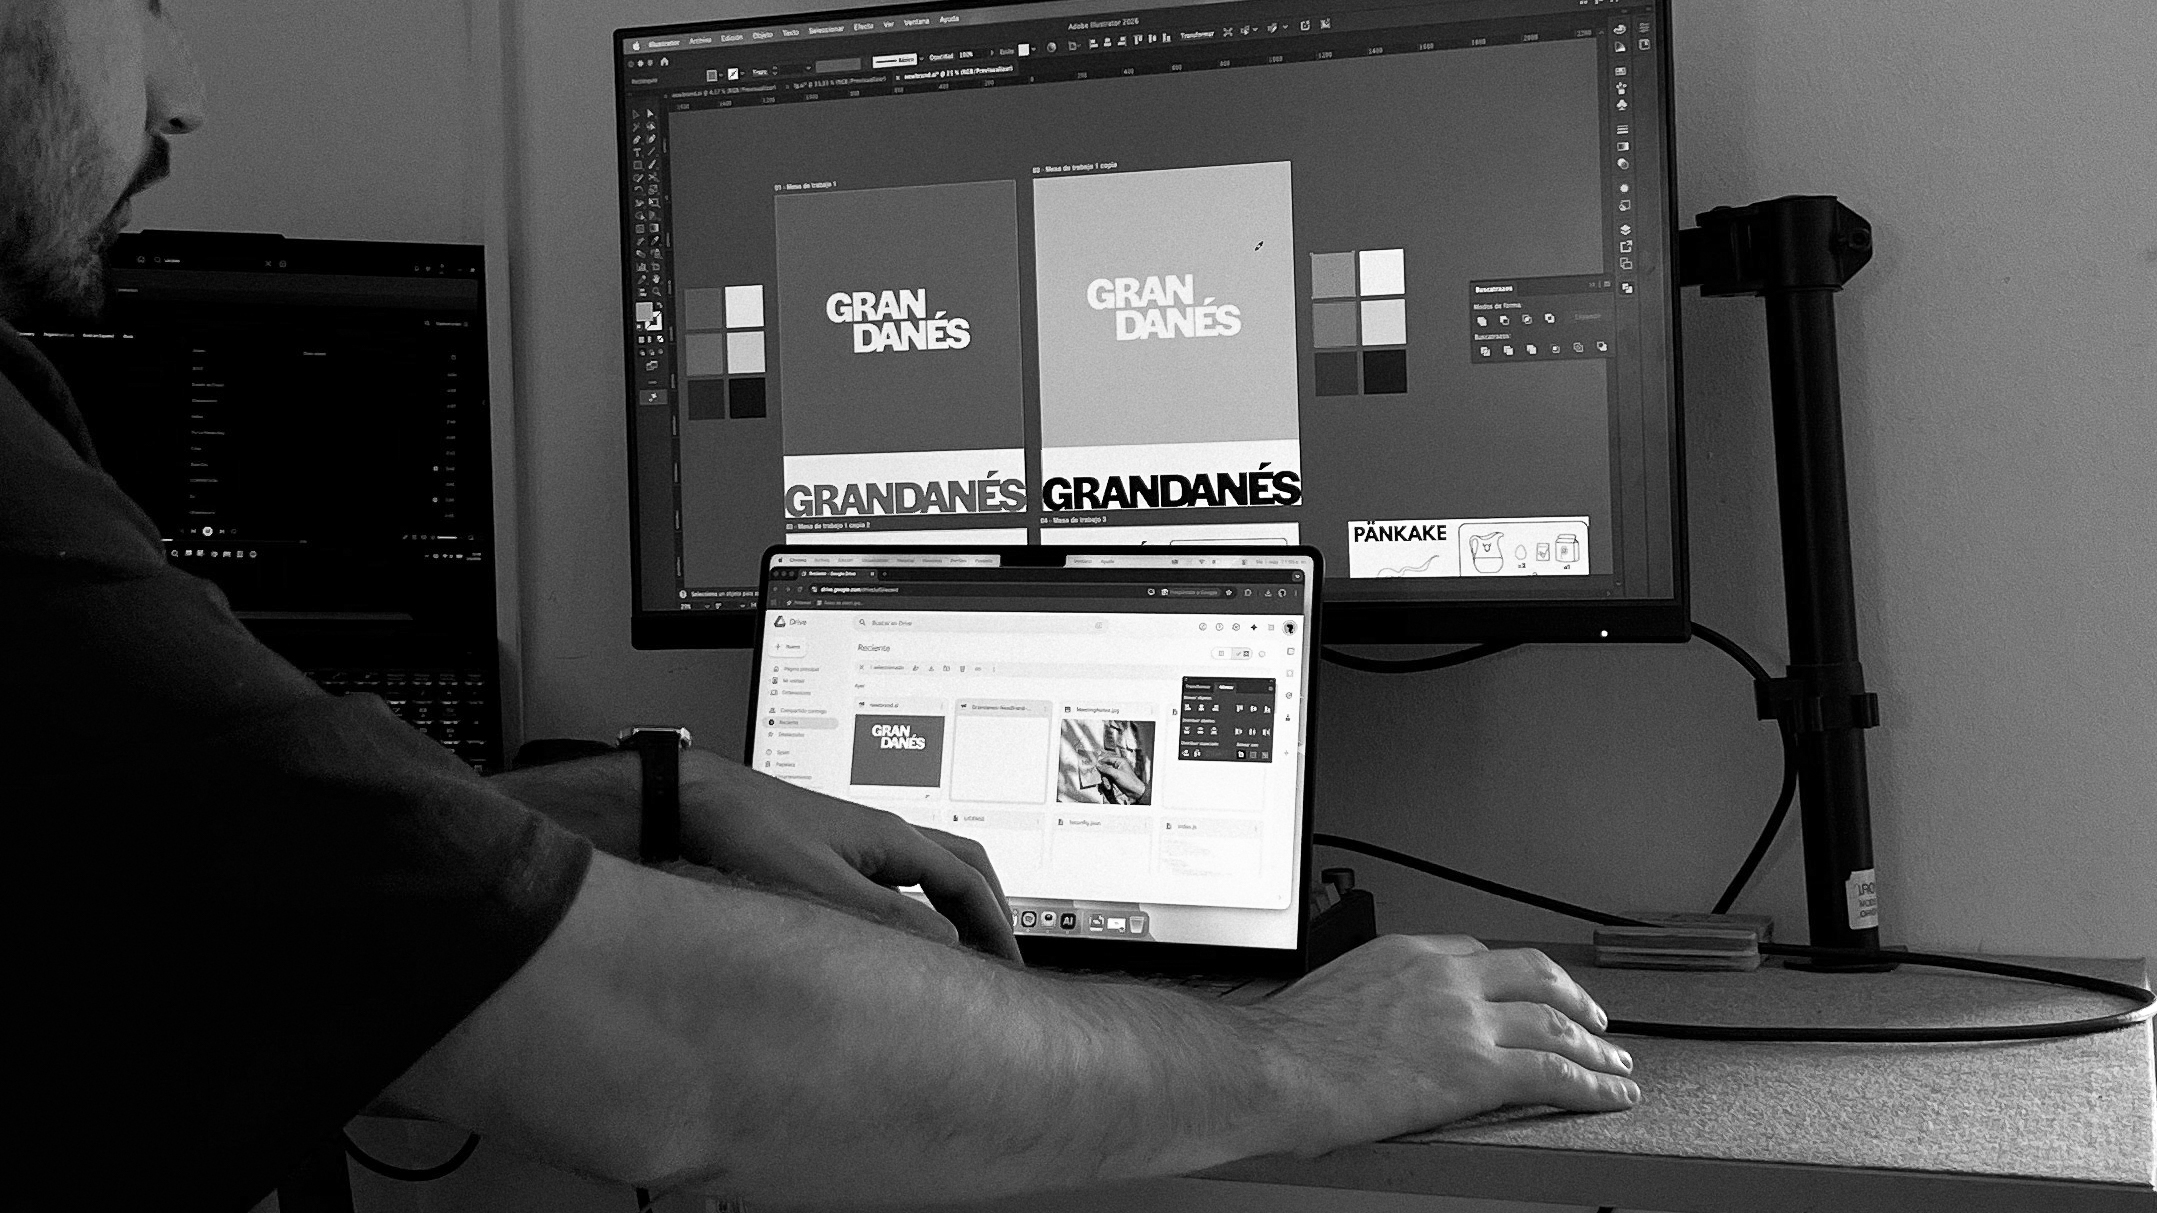
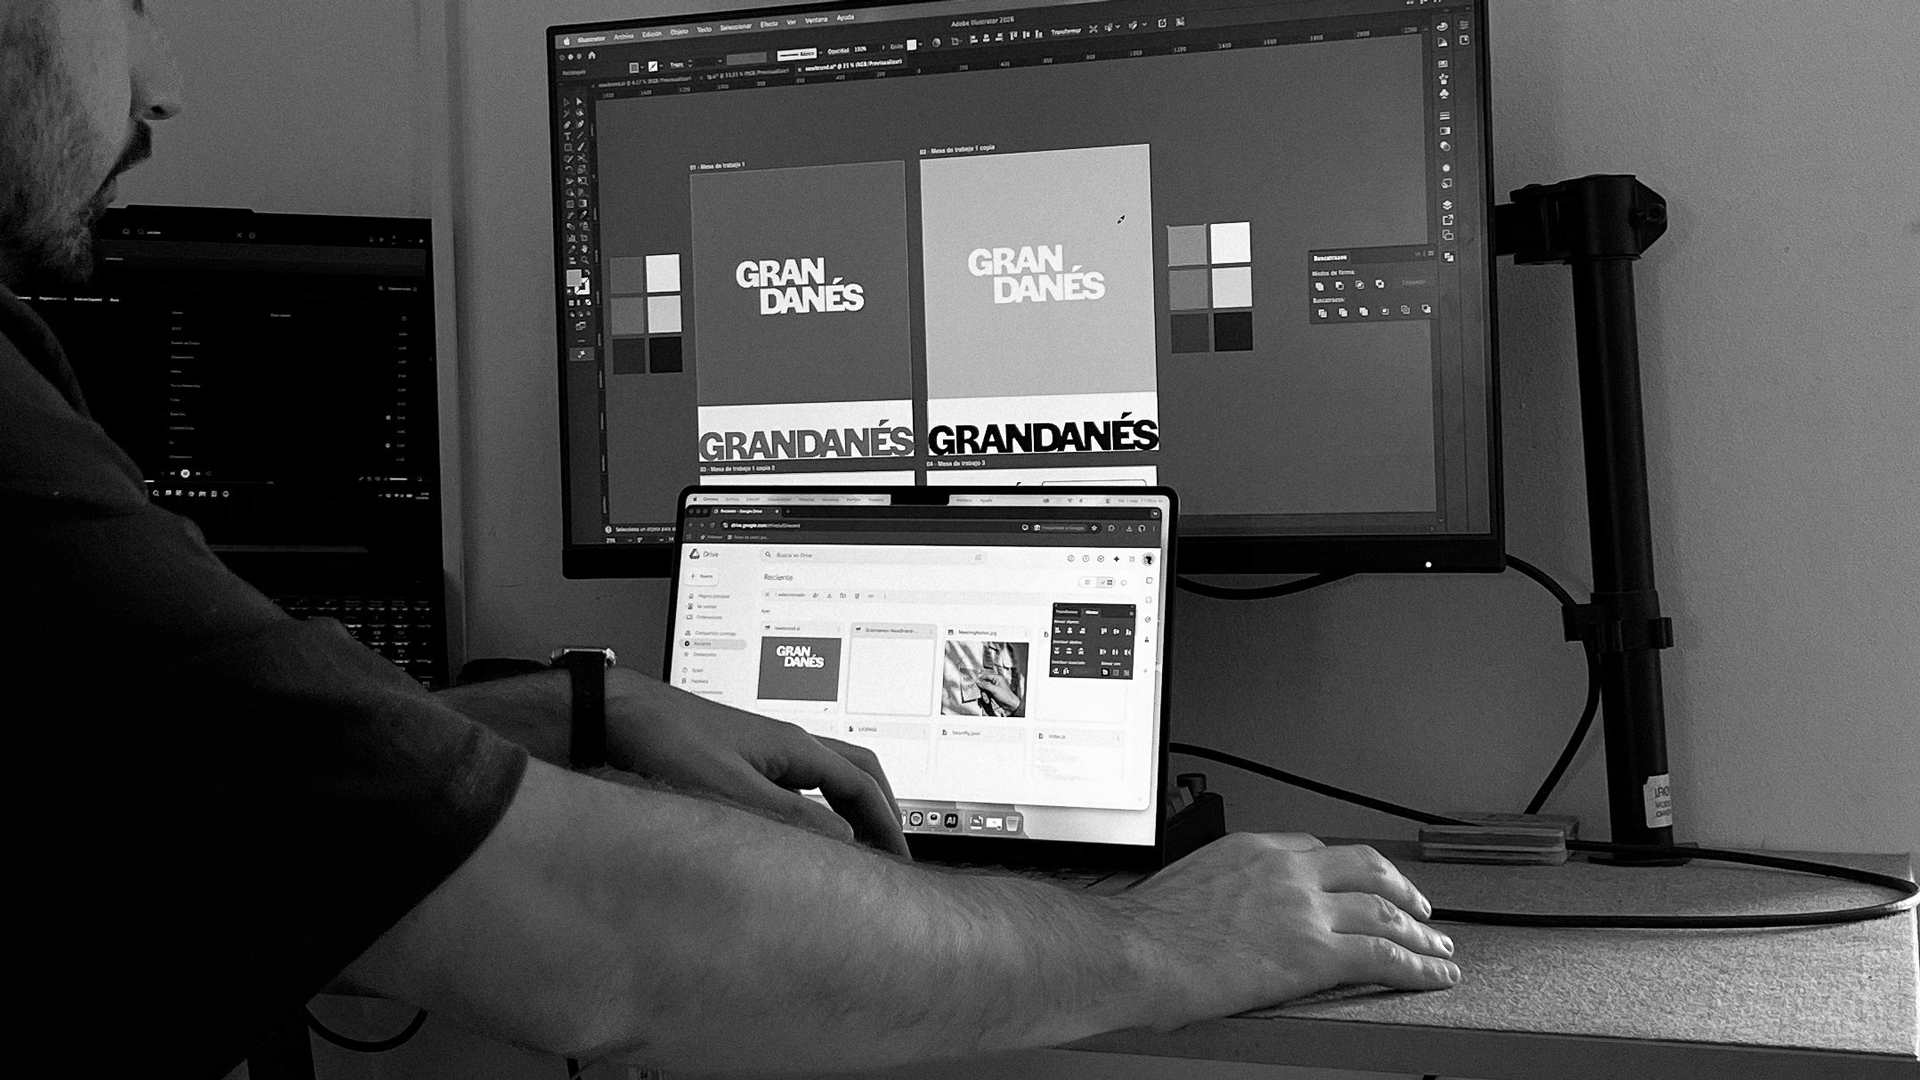
Actualizar copy, imagen About Us y miniaturas de IG
- Showcase: visor cambiado a 4:5 (fit natural sin viewport constraint)
- Cesca: tagline y description actualizados
- Módulo: description simplificada
- Nosotros: eyebrow "/ Nosotros", copy reescrito + AboutUs.jpg actualizada
- FAQ: 5 textos actualizados (título + 4 respuestas)
- IG feed: 6 miniaturas reemplazadas por las nuevas oficiales

diff --git a/index.html b/index.html
@@ -767,14 +767,11 @@
         }
 
         /* ═══════════════════════════════════════
-           SHOWCASE — Producto destacado (fit viewport)
+           SHOWCASE — Producto destacado (visor 4:5)
         ═══════════════════════════════════════ */
         .showcase {
             background: var(--white);
-            padding: 24px 6%;
-            min-height: calc(100vh - 46px);
-            display: flex;
-            flex-direction: column;
+            padding: 50px 6% 80px;
             box-sizing: border-box;
         }
 
@@ -784,10 +781,6 @@
             opacity: 1;
             transition: opacity 0.4s ease;
             width: 100%;
-            flex: 1;
-            display: flex;
-            flex-direction: column;
-            min-height: 0;
         }
 
         .showcase-inner.fading {
@@ -825,10 +818,8 @@
         .showcase-grid {
             display: grid;
             grid-template-columns: 1.1fr 1fr;
-            gap: 32px;
+            gap: 40px;
             align-items: start;
-            flex: 1;
-            min-height: 0;
         }
 
         .showcase-media {
@@ -858,7 +849,7 @@
             position: relative;
             flex: 1;
             min-width: 0;
-            height: clamp(360px, 58vh, 600px);
+            aspect-ratio: 4 / 5;
         }
 
         .showcase-hero img {
@@ -1756,17 +1747,17 @@
     <section class="historia" id="sobre">
         <div class="historia-header">
             <div>
-                <div class="historia-eyebrow reveal">/ Sobre Grandanés</div>
+                <div class="historia-eyebrow reveal">/ Nosotros</div>
                 <h2 class="historia-title reveal d1">Diseñamos<br>para ellos.</h2>
                 <div class="historia-sticker reveal d3">
                     <img src="images/Sticker-Web-NEW02.svg" alt="quien manda en la casa.">
                 </div>
             </div>
             <div class="historia-text reveal d2">
-                <p><strong>Empezó con un perro y una cama incómoda.</strong></p>
-                <p>Grandanés nació en Córdoba, mirando a nuestros perros buscando dónde dormir y dándonos cuenta de que el diseño de muebles para mascotas era mediocre.</p>
-                <p>Así que decidimos hacerlo nosotros. Somos un estudio de diseño para mascotas. Punto.</p>
-                <p>Hacemos cosas que nos gustan, con materiales que aguantan, para los que mandan de verdad en la casa.</p>
+                <p><strong>Estudio de diseño para mascotas.</strong></p>
+                <p>Grandanés nació en Córdoba, cuando descubrimos que no existían productos de diseño dedicados a los que más amamos, nuestros perros.</p>
+                <p>Así que decidimos hacerlo nosotros.</p>
+                <p>Diseñamos cosas que nos gustan, con materiales que aguantan, para los que mandan de verdad en la casa.</p>
             </div>
         </div>
 
@@ -1789,7 +1780,7 @@
         <div class="faq-header">
             <div>
                 <div class="faq-eyebrow reveal">/ Preguntas frecuentes</div>
-                <h2 class="faq-title reveal d1">Antes de que preguntes.</h2>
+                <h2 class="faq-title reveal d1">Lo que todos quieren saber.</h2>
             </div>
             <p class="faq-sub reveal d2">Lo más común que nos preguntan. Si te queda algo en el aire, escribinos.</p>
         </div>
@@ -1801,7 +1792,7 @@
                     <span class="faq-toggle">+</span>
                 </button>
                 <div class="faq-a"><div class="faq-a-inner">
-                    Pronto. Estamos terminando de cerrar los detalles para lanzar la tienda online en TiendaNube. Sumate al newsletter abajo y te avisamos antes que nadie.
+                    Pronto. Estamos terminando de cerrar los detalles para lanzar la tienda online. Sumate al newsletter abajo y te avisamos antes que nadie.
                 </div></div>
             </div>
 
@@ -1821,7 +1812,7 @@
                     <span class="faq-toggle">+</span>
                 </button>
                 <div class="faq-a"><div class="faq-a-inner">
-                    Sí. Despachamos desde Córdoba a toda Argentina. Envíos internacionales: en proceso.
+                    Sí. Despachamos desde Córdoba a toda Argentina.
                 </div></div>
             </div>
 
@@ -1831,7 +1822,7 @@
                     <span class="faq-toggle">+</span>
                 </button>
                 <div class="faq-a"><div class="faq-a-inner">
-                    La primera tanda está pensada para mascotas de hasta 25 kg. Para razas más grandes, estamos cocinando una línea aparte.
+                    La primera tanda está pensada para mascotas de hasta 25 kg. Próximamente más modelos.
                 </div></div>
             </div>
 
@@ -1851,7 +1842,7 @@
                     <span class="faq-toggle">+</span>
                 </button>
                 <div class="faq-a"><div class="faq-a-inner">
-                    Cada pieza viene con su instructivo de cuidado. Trabajamos con materiales nobles y fáciles de limpiar — pensados para aguantar el uso real, no solo la foto.
+                    Cada pieza viene con su instructivo de cuidado. Trabajamos con materiales nobles y fáciles de limpiar. Pensados para aguantar el uso real.
                 </div></div>
             </div>
         </div>
@@ -1889,22 +1880,22 @@
         </div>
         <div class="ig-grid">
             <a class="ig-item reveal d1" href="https://instagram.com/grandanes.studio" target="_blank" rel="noopener">
-                <img src="images/Post01-NEW.jpg" alt="Grandanés - Diseñamos para ellos." loading="lazy">
+                <img src="images/Miniatura-IG-01.jpg" alt="grandanés studio" loading="lazy">
             </a>
             <a class="ig-item reveal d2" href="https://instagram.com/grandanes.studio" target="_blank" rel="noopener">
-                <img src="images/Post02-NEW.jpg" alt="Sticker Gran-Danés Design Studio" loading="lazy">
+                <img src="images/Miniatura-IG-02.jpg" alt="grandanés studio" loading="lazy">
             </a>
             <a class="ig-item reveal d3" href="https://instagram.com/grandanes.studio" target="_blank" rel="noopener">
-                <img src="images/Post03-NEW.jpg" alt="Está llegando el mueble" loading="lazy">
+                <img src="images/Miniatura-IG-03.jpg" alt="grandanés studio" loading="lazy">
             </a>
             <a class="ig-item reveal d1" href="https://instagram.com/grandanes.studio" target="_blank" rel="noopener">
-                <img src="images/01.jpg" alt="grandanés studio" loading="lazy">
+                <img src="images/Miniatura-IG-04.jpg" alt="grandanés studio" loading="lazy">
             </a>
             <a class="ig-item reveal d2" href="https://instagram.com/grandanes.studio" target="_blank" rel="noopener">
-                <img src="images/02.jpg" alt="grandanés studio" loading="lazy">
+                <img src="images/Miniatura-IG-05.jpg" alt="grandanés studio" loading="lazy">
             </a>
             <a class="ig-item reveal d3" href="https://instagram.com/grandanes.studio" target="_blank" rel="noopener">
-                <img src="images/03.jpg" alt="grandanés studio" loading="lazy">
+                <img src="images/Miniatura-IG-06.jpg" alt="grandanés studio" loading="lazy">
             </a>
         </div>
     </section>
@@ -2112,8 +2103,8 @@
             const products = {
                 cesca: {
                     name: 'Cama Cesca',
-                    tagline: 'Líneas curvas, alma cromada.',
-                    description: 'La Cesca toma la elegancia del cantilever clásico y la lleva al hogar de tu mascota. Acero tubular cromado curvado a mano, terminación espejo, con almohadón removible en cordura negra.',
+                    tagline: 'Cama tipo ménsula, hecha de acero tubular cromado curvado.',
+                    description: 'Cama estilo cantilever clásico. Acero tubular cromado curvado, con almohadón removible en cordura negra.',
                     hero: 'images/CamaCesca.jpg',
                     thumbs: [
                         'images/CamaCesca.jpg',
@@ -2147,7 +2138,7 @@
                 modulo: {
                     name: 'Cama Módulo',
                     tagline: 'Chapa plegada con almohadón de eco-cuero.',
-                    description: 'Estructura en chapa plegada con terminación epoxi o laqueada. Almohadón en eco-cuero de alta resistencia, fácil de limpiar y con carácter.',
+                    description: 'Estructura en chapa plegada con terminación epoxi o laqueada. Almohadón en eco-cuero de alta resistencia y fácil de limpiar.',
                     hero: 'images/CamaMódulo.jpg',
                     thumbs: [
                         'images/CamaMódulo.jpg',